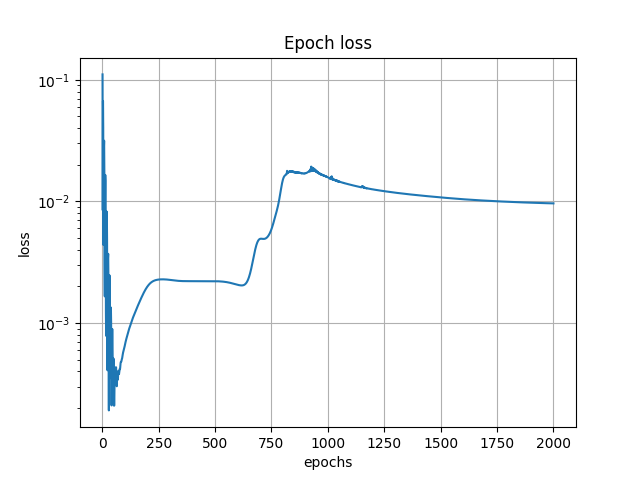
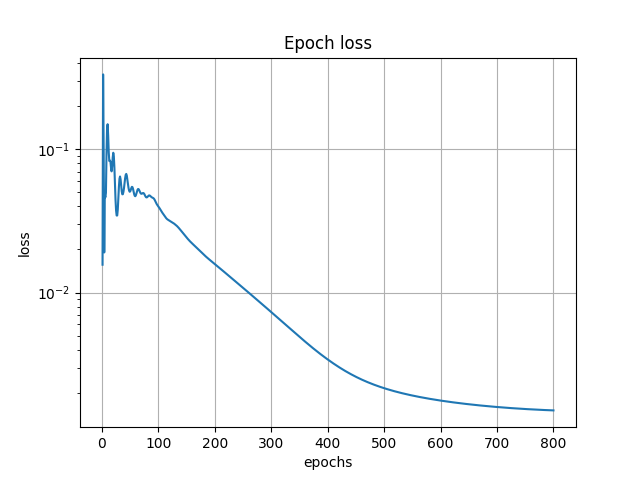
deeponet data added

diff --git a/test.py b/test.py
@@ -7,7 +7,7 @@ import matplotlib.pyplot as plt
 # tel = p.domain.Time_NEllipsoid(2, [0, 0], [2.5, 1.5], [0,1])
 # bound = p.boundaries.dirichlet(tel, [lambda t, x1, x2: 0+t*0 ])
 # inits = p.initials.initials(tel, [lambda x1, x2: tf.sin(np.pi*x1)*tf.sin(np.pi*x2)])
-# dat = p.data.timededata(tel, bound, inits, 12000, 1000, 1000)
+# dat = p.data.timepinndata(tel, bound, inits, 12000, 1000, 1000)
 # mymodel = p.models.pinn(dat, ["0.08*ux1x1 + 0.08*ux2x2 - ut"])
 # mymodel.train(2000)
 
@@ -19,27 +19,27 @@ import matplotlib.pyplot as plt
 # Poisson
 # re2 = p.domain.NRect(2, [-1, -1], [1, 1])
 # bound2 = p.boundaries.dirichlet(re2, [lambda x1, x2: tf.cos(np.pi*x1)*tf.sin(np.pi*x2)])
-# dat2 = p.data.dedata(re2, bound2, 12000, 10)
+# dat2 = p.data.pinndata(re2, bound2, 12000, 10)
 # mymodel = p.models.pinn(dat2, ["ux1x1 + ux2x2 - (-2*np.pi**2*tf.cos(np.pi*x1)*tf.sin(np.pi*x2))"])
 # mymodel.train(1)
 # p.plotters.plot_solution_prediction_2D(mymodel)
 # p.plotters.plot_epoch_loss(mymodel)
 
 # Linear Advection
-tre = p.domain.Time_NRect(1, [-1], [1], [0,1])
-bound = p.boundaries.periodic(tre)
-inits = p.initials.initials(tre, [lambda x1: tf.cos(np.pi*x1)])
-dat = p.data.timededata(tre, bound, inits, 10000, 10, 100)
-mymodel = p.models.pinn(dat, ["ut+ux1"])
-mymodel.train(300)
-p.plotters.plot_solution_prediction_time1D(mymodel)
-p.plotters.plot_epoch_loss(mymodel)
+# tre = p.domain.Time_NRect(1, [-1], [1], [0,1])
+# bound = p.boundaries.periodic(tre)
+# inits = p.initials.initials(tre, [lambda x1: tf.cos(np.pi*x1)])
+# dat = p.data.timepinndata(tre, bound, inits, 10000, 10, 100)
+# mymodel = p.models.pinn(dat, ["ut+ux1"])
+# mymodel.train(300)
+# p.plotters.plot_solution_prediction_time1D(mymodel)
+# p.plotters.plot_epoch_loss(mymodel)
 
 # Heat
 # tre = p.domain.Time_NRect(1, [0], [1], [0,1])
 # bound = p.boundaries.dirichlet(tre, [lambda t, x1: 0+t*0 ])
 # inits = p.initials.initials(tre, [lambda x1: tf.sin(np.pi*x1)])
-# dat = p.data.timededata(tre, bound, inits, 10000, 800, 600)
+# dat = p.data.timepinndata(tre, bound, inits, 10000, 800, 600)
 # mymodel = p.models.pinn(dat, ["0.08*ux1x1 - ut"])
 # mymodel.train(800)
 # p.plotters.plot_solution_prediction_time1D(mymodel)
@@ -52,7 +52,7 @@ p.plotters.plot_epoch_loss(mymodel)
 # tre = p.domain.Time_NRect(1, [-1], [1], [0,10])
 # bound = p.boundaries.dirichlet(tre, [lambda t, x1: -(tf.cos(t)), lambda t, x1: tf.cos(t)])
 # inits = p.initials.initials(tre, [lambda x1: x1, lambda x1: 0+x1*0])
-# dat = p.data.timededata(tre, bound, inits, 15000,  1000, 500)
+# dat = p.data.timepinndata(tre, bound, inits, 15000,  1000, 500)
 # mymodel = p.models.pinn(dat, ["utt - ux1x1 + u**2 - (-(x1*tf.cos(t)) + (x1**2)*((tf.cos(t))**2))"])
 # epochs = 2000
 # mymodel.train(epochs)
@@ -61,14 +61,13 @@ p.plotters.plot_epoch_loss(mymodel)
 
 
 # Heat 3D
-
 # tre = p.domain.Time_NRect(2, [0, 0], [1, 1], [0,1])
+# tre = p.domain.Time_NEllipsoid(2, [0.5, 0.5], [0.5, 0.5], [0, 1])
 # bound = p.boundaries.dirichlet(tre, [lambda t, x1, x2: 0+t*0 ])
 # inits = p.initials.initials(tre, [lambda x1, x2: tf.sin(np.pi*x1)*tf.sin(np.pi*x2)])
-# dat = p.data.timededata(tre, bound, inits, 12000, 10, 10)
+# dat = p.data.timepinndata(tre, bound, inits, 12000, 600, 300)
 # mymodel = p.models.pinn(dat, ["0.08*ux1x1 + 0.08*ux2x2 - ut"])
-# mymodel.train(1)
-
+# mymodel.train(800)
 # p.plotters.plot_solution_prediction_time2D(mymodel)
 # p.plotters.plot_epoch_loss(mymodel)
 
@@ -76,7 +75,7 @@ p.plotters.plot_epoch_loss(mymodel)
 # tre = p.domain.Time_NRect(1, [-1], [1], [0,1])
 # bound = p.boundaries.periodic(tre)
 # inits = p.initials.initials(tre, [lambda x1: tf.cos(np.pi*x1)])
-# dat = p.data.timededata(tre, bound, inits, 12000, 10, 1000)
+# dat = p.data.timepinndata(tre, bound, inits, 12000, 10, 1000)
 # mymodel = p.models.pinn(dat, ["ut+u*ux1-(-0.0025)*ux1x1x1"])
 # mymodel.train(500)
 # p.plotters.plot_epoch_loss(mymodel)
@@ -86,7 +85,7 @@ p.plotters.plot_epoch_loss(mymodel)
 # tre = p.domain.Time_NRect(1, [-1], [1], [0,1])
 # bound = p.boundaries.dirichlet(tre, [lambda t, x1: 0+t*0 ])
 # inits = p.initials.initials(tre, [lambda x1: -tf.sin(np.pi*x1)])
-# dat = p.data.timededata(tre, bound, inits, 10000, 600, 400)
+# dat = p.data.timepinndata(tre, bound, inits, 10000, 600, 400)
 # mymodel = p.models.pinn(dat, ["ut+u*ux1-(0.01/np.pi)*ux1x1"])
 # mymodel.train(500)
 # p.plotters.plot_solution_prediction_time1D(mymodel)
@@ -97,17 +96,17 @@ p.plotters.plot_epoch_loss(mymodel)
 # tre = p.domain.NRect(1, [0], [1])
 # cond = p.boundaries.odeicbc(tre, [[0.5, 1], [2]], "ic")
 # # cond = p.boundaries.odeicbc(tre, [[0.5, 1.11, 1, 0.12], [2, 1.12]], "bc")
-# dat = p.data.dedata(tre, cond, 1000, 100)
+# dat = p.data.pinndata(tre, cond, 1000, 100)
 # mymodel = p.models.pinn(dat, ["u1x1x1 + u1", "u2x1+u1"])
 # mymodel.train(500)
 # p.plotters.plot_epoch_loss(mymodel)
 # p.plotters.plot_solution_prediction_1D(mymodel)
 
-# test system
+# test system - advec and burgers
 # tre = p.domain.Time_NRect(1, [-1], [1], [0, 1])
 # bound = p.boundaries.periodic(tre)
 # inits = p.initials.initials(tre, [[lambda x1: tf.cos(np.pi*x1)], [lambda x1: tf.cos(np.pi*x1)]])
-# dat = p.data.timededata(tre, bound, inits, 12000, 10, 500)
+# dat = p.data.timepinndata(tre, bound, inits, 12000, 10, 500)
 # mymodel = p.models.pinn(dat, ["u1t+u1x1", "u2t+u2*u2x1-(-0.0025)*u2x1x1x1"])
 # mymodel.train(1500)
 # p.plotters.plot_epoch_loss(mymodel)
@@ -117,11 +116,42 @@ p.plotters.plot_epoch_loss(mymodel)
 # tre = p.domain.Time_NRect(1, [-1], [1], [0, 1])
 # bound = p.boundaries.dirichlet(tre, [lambda t, x1: 0+t*0])
 # inits = p.initials.initials(tre, [[lambda x1: tf.sin((np.pi/2)*x1 + (np.pi/2))], [lambda x1: -tf.sin(np.pi*x1)]])
-# dat = p.data.timededata(tre, bound, inits, 12000, 1000, 1000)
+# dat = p.data.timepinndata(tre, bound, inits, 12000, 1000, 1000)
 # mymodel = p.models.pinn(dat, ["0.08*u1x1x1 - u1t", "u2t+u2*u2x1-(0.01/np.pi)*u2x1x1"])
 # mymodel.train(1500)
 # p.plotters.plot_epoch_loss(mymodel)
 # p.plotters.plot_solution_prediction_time1D(mymodel)
 
+
+# DeepONet --------------
+
+# Heat 1+1
+# tre = p.domain.Time_NRect(1, [0], [1], [0,1])
+# bound = p.boundaries.dirichlet(tre, [lambda t, x1: 0+t*0 ])
+# inits = p.initials.initials(tre, [lambda x1: tf.sin(np.pi*x1)])
+# dat = p.data.timedondata(tre, bound, inits, 10, 5, 5, 4)
+# mymodel = p.models.pinn(dat, ["0.08*ux1x1 - ut"])
+# mymodel.train(800)
+# p.plotters.plot_solution_prediction_time1D(mymodel)
+# p.plotters.plot_epoch_loss(mymodel)
+
+# Poisson
+# re2 = p.domain.NRect(2, [-1, -1], [1, 1])
+# bound2 = p.boundaries.dirichlet(re2, [lambda x1, x2: tf.cos(np.pi*x1)*tf.sin(np.pi*x2)])
+# dat2 = p.data.dondata(re2, bound2, 10, 5, 4)
+# mymodel = p.models.pinn(dat2, ["ux1x1 + ux2x2 - (-2*np.pi**2*tf.cos(np.pi*x1)*tf.sin(np.pi*x2))"])
+# mymodel.train(1)
+# p.plotters.plot_solution_prediction_2D(mymodel)
+# p.plotters.plot_epoch_loss(mymodel)
+
+# Linear Advection
+tre = p.domain.Time_NRect(1, [-1], [1], [0,1])
+bound = p.boundaries.periodic(tre)
+inits = p.initials.initials(tre, [lambda x1: tf.cos(np.pi*x1)])
+dat = p.data.timedondata(tre, bound, inits, 10, 10, 100, 4)
+# mymodel = p.models.pinn(dat, ["ut+ux1"])
+# mymodel.train(300)
+# p.plotters.plot_solution_prediction_time1D(mymodel)
+# p.plotters.plot_epoch_loss(mymodel)
 
 # -------------

diff --git a/src/pinnde/data/dondata.py b/src/pinnde/data/dondata.py
@@ -1,0 +1,55 @@
+from .data import data
+import numpy as np
+import tensorflow as tf
+from ..domain import timedomain, domain
+
+
+class dondata(data):
+
+    def __init__(self, domain, boundaries, n_clp=1000, n_bc=100, n_sensors=100):
+        super().__init__(3)
+        self._domain = domain
+        self._boundaries = boundaries
+        self._n_clp = n_clp
+        self._n_bc = n_bc
+        self._n_sensors = n_sensors
+        self._clp = domain.sampleDomain(n_clp)
+        self._bcp = boundaries.boundaryPoints(n_bc)
+        self._sensors = self.generate_sensors()
+        return
+
+    def generate_sensors(self):
+        max_waves = 3
+        clps = self._domain.sampleDomain(self._n_sensors)
+        if (isinstance(self._domain, timedomain)):
+           clps = clps[:,1:]
+
+        amplitudes = np.random.randn(self._n_clp, max_waves)
+        phases = -np.pi*np.random.rand(self._n_clp, max_waves) + np.pi/2
+
+        
+        u = 0.0*np.repeat(np.expand_dims(clps[:,0:1].flatten(), axis=0), repeats=self._n_clp, axis=0)
+        for i in range(max_waves):
+           u += amplitudes[:,i:i+1]
+           for i in range(self._domain.get_dim()):
+              u = u*tf.sin((i+1)*np.repeat(np.expand_dims(clps[:, i:i+1].flatten(), axis=0), repeats=self._n_clp, axis=0) + phases[:,i:i+1])
+        usensors = np.float32(u.numpy())
+        return usensors
+
+    def get_clp(self):
+      return self._clp
+
+    def get_bcp(self):
+      return self._bcp
+
+    def get_domain(self):
+        return self._domain
+
+    def get_boundaries(self):
+        return self._boundaries
+    
+    def get_n_clp(self):
+      return self._n_clp
+
+    def get_n_bc(self):
+      return self._n_bc

diff --git a/testlegacy.py b/testlegacy.py
@@ -2,30 +2,35 @@
 # import pinnde.pde_Initials as pde_Initials
 # import pinnde.pde_Boundaries_2var as pde_Boundaries_2var
 
-import src.pinnde.legacy.pde_Solvers as pde_Solvers
-import src.pinnde.legacy.pde_Initials as pde_Initials
-import src.pinnde.legacy.pde_Boundaries_2var as pde_Boundaries_2var
+# import src.pinnde.legacy.pde_Solvers as pde_Solvers
+# import src.pinnde.legacy.pde_Initials as pde_Initials
+# import src.pinnde.legacy.pde_Boundaries_2var as pde_Boundaries_2var
 
 
 import numpy as np
 import tensorflow as tf
 
-u0 = lambda x: tf.cos(np.pi*x)
-t_bdry = [0,1]
-x_bdry = [-1,1]
-t_order = 1
-N_iv = 100
-initials = pde_Initials.setup_initials_2var(t_bdry, x_bdry, t_order, [u0], N_iv)
+# u0 = lambda x: tf.cos(np.pi*x)
+# t_bdry = [0,1]
+# x_bdry = [-1,1]
+# t_order = 1
+# N_iv = 100
+# initials = pde_Initials.setup_initials_2var(t_bdry, x_bdry, t_order, [u0], N_iv)
 
-boundaries = pde_Boundaries_2var.setup_boundaries_periodic_tx(t_bdry, x_bdry)
+# boundaries = pde_Boundaries_2var.setup_boundaries_periodic_tx(t_bdry, x_bdry)
 
-eqn = "ut+ux"
-N_pde = 10000
-epochs = 300
+# eqn = "ut+ux"
+# N_pde = 10000
+# epochs = 300
 
-mymodel = pde_Solvers.solvePDE_tx(eqn, initials, boundaries, N_pde)
-mymodel.train_model(epochs)
+# mymodel = pde_Solvers.solvePDE_tx(eqn, initials, boundaries, N_pde)
+# mymodel.train_model(epochs)
 
-mymodel.plot_epoch_loss()
+# mymodel.plot_epoch_loss()
 
-mymodel.plot_solution_prediction()
+# mymodel.plot_solution_prediction()
+
+import src.pinnde.legacy.PDE.pde_Points as p
+pdes, usensors = p.defineCollocationPoints_DON_2var([0, 1], [0,1], 100, 10, 200, [-2,2])
+print(np.shape(pdes))
+print(np.shape(usensors))

diff --git a/src/pinnde/data/timedondata.py b/src/pinnde/data/timedondata.py
@@ -1,11 +1,12 @@
-from .dedata import dedata
+from .dondata import dondata
 
-class timededata(dedata):
+class timedondata(dondata):
 
   def __init__(self, domain, boundaries, initials,
-                 n_clp=1000, n_bc=100, n_ic=100):
+                 n_clp=1000, n_bc=100, n_ic=100, n_sensors=100, sensor_range=[-2, 2]):
 
-      super().__init__(domain, boundaries, n_clp, n_bc)
+      super().__init__(domain, boundaries, n_clp, n_bc, n_sensors, sensor_range)
+      self.set_data_type(4)
       self._initials = initials
       self._n_iv = n_ic
       self._icp = initials.sampleInitials(n_ic)

diff --git a/src/pinnde/data/timepinndata.py b/src/pinnde/data/timepinndata.py
@@ -1,0 +1,21 @@
+from .pinndata import pinndata
+
+class timepinndata(pinndata):
+
+  def __init__(self, domain, boundaries, initials,
+                 n_clp=1000, n_bc=100, n_ic=100):
+
+      super().__init__(domain, boundaries, n_clp, n_bc)
+      self.set_data_type(2)
+      self._initials = initials
+      self._n_iv = n_ic
+      self._icp = initials.sampleInitials(n_ic)
+
+  def get_icp(self):
+    return self._icp
+
+  def get_initials(self):
+    return self._initials
+  
+  def get_n_ic(self):
+    return self._n_iv

diff --git a/src/pinnde/data/__init__.py b/src/pinnde/data/__init__.py
@@ -1,7 +1,11 @@
 __all__ = [
-    "dedata",
-    "timededata"
+    "pinndata",
+    "timepinndata",
+    "dondata",
+    "timedondata"
 ]
 
-from .dedata import dedata
-from .timededata import timededata
+from .pinndata import pinndata
+from .timepinndata import timepinndata
+from .dondata import dondata
+from .timedondata import timedondata

diff --git a/src/pinnde/models/deeponet.py b/src/pinnde/models/deeponet.py
@@ -5,7 +5,7 @@ from ..training import pinnTrainSteps
 import tensorflow as tf
 import numpy as np
 
-class pinn(model):
+class deeponet(model):
 
     def __init__(self, data, eqns,
                  layers=4, units=60, inner_act="tanh",

diff --git a/src/pinnde/data/pinndata.py b/src/pinnde/data/pinndata.py
@@ -1,6 +1,6 @@
 from .data import data
 
-class dedata(data):
+class pinndata(data):
 
     def __init__(self, domain, boundaries, n_clp=1000, n_bc=100):
         super().__init__(1)
